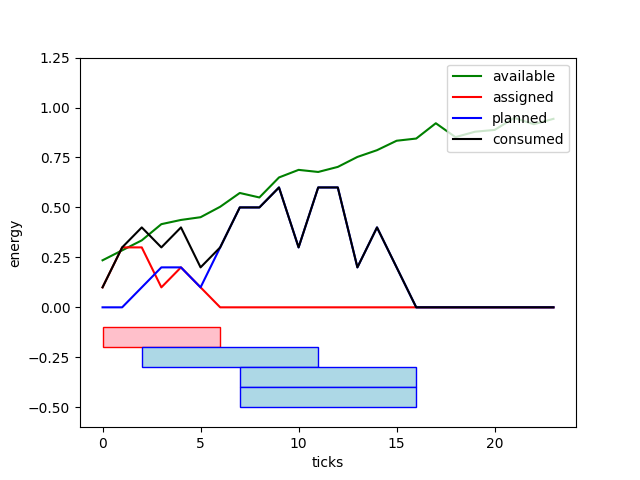
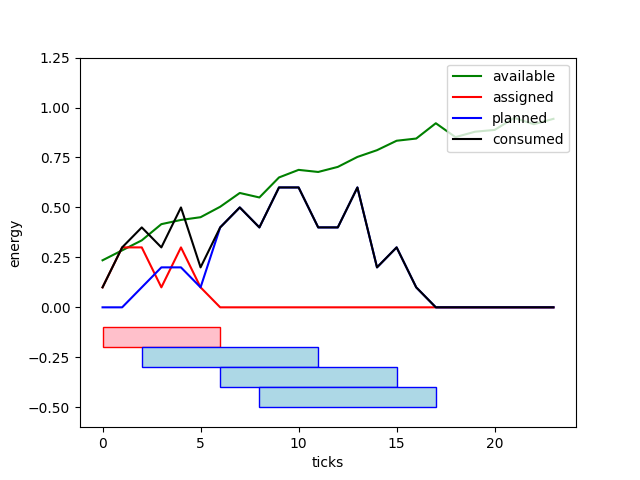
update washing example

Changed region(s): [[0.25, 0.375, 0.6875, 0.6562], [0.5938, 0.75, 0.6875, 0.875], [0.3438, 0.75, 0.4062, 0.875]]

diff --git a/example_washing.py b/example_washing.py
@@ -12,7 +12,7 @@ if __name__ == '__main__':
     solar_profile = utils.simulate_solar_profile(24*5, 8*4)  # 5:00-13:00
     hub.update_source_profile('solarpanel1', solar_profile, autoschedule=False)
 
-    dishwasher_profile = np.array([0.1, 0.2, 0.2, 0.1, 0.3, 0.3, 0.1, 0.2, 0.1])
+    dishwasher_profile = np.array([0.1, 0.2, 0.2, 0.1, 0.3, 0.3, 0.1, 0.3, 0.1])
     for i in range(4):
         request = Request(i, f'dishwasher{i}', dishwasher_profile, i*5)
         hub.add_request(request, autoschedule=False)
